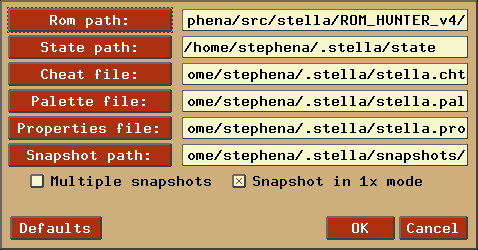
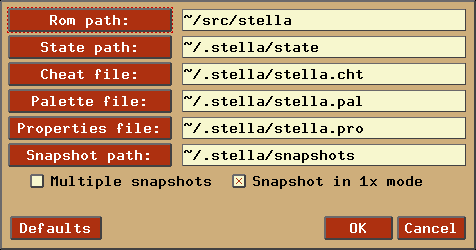
Well, it looks like I'll get 2.7 released tomorrow after all.

diff --git a/stella/docs/index.html b/stella/docs/index.html
@@ -650,8 +650,13 @@
 		</tr>
 	</table>
 
+	<p>If you include the '~' character at the beginning of a path, it will be expanded
+	to your home directory.  For Linux/UNIX, this corresponds to your $HOME directory,
+	but for Windows it means your 'My Documents' folder.</p>
+
 	<p>Selecting a new path for an item is done by clicking the appropriate button(s)
-	(in this case, 'Rom path' was selected):</p>
+	(in this case, 'Rom path' was selected).  Note that although the rom path
+	was '~/src/stella', it expands to '/home/stephena/src/stella' in the browser:</p>
 	<p><img src="graphics/rom_browser.png"></p>
 
 	<p>Once you've changed your settings, you can start emulation by selecting a ROM
